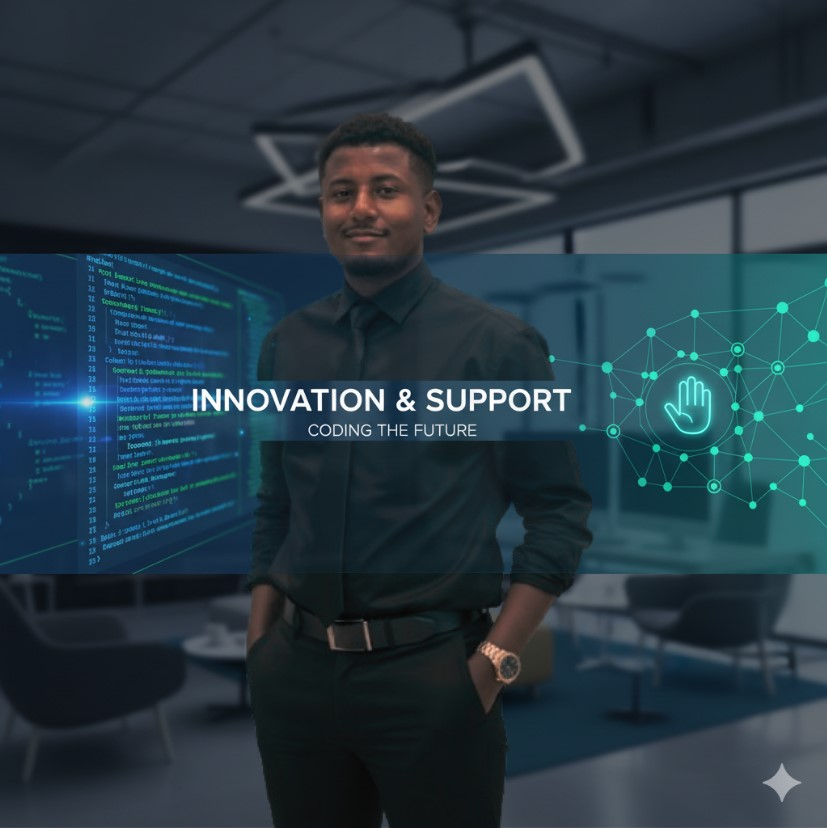
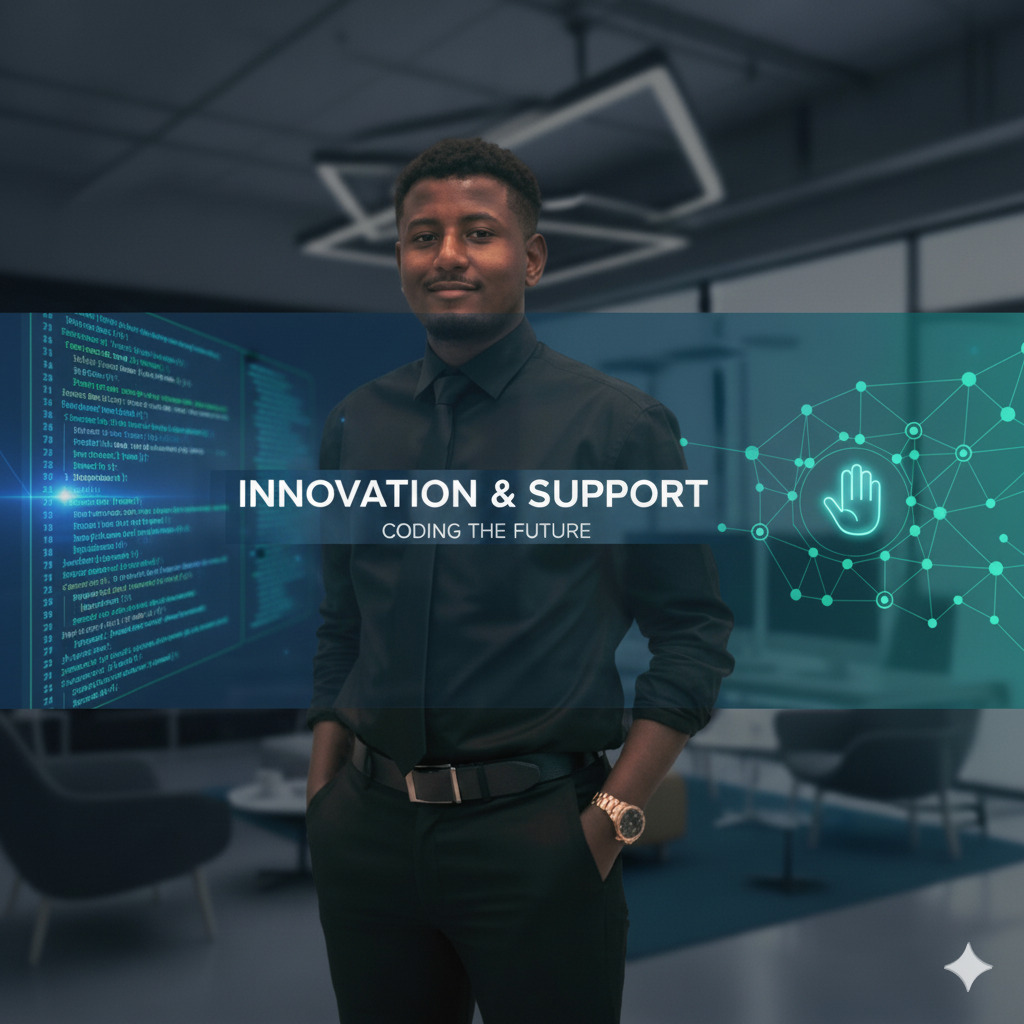
alterações em imagem e sessão

diff --git a/index.html b/index.html
@@ -27,13 +27,7 @@
   <!-- Template Main CSS File -->
   <link href="assets/css/style.css" rel="stylesheet">
 
-  <!-- =======================================================
-  * Template Name: iPortfolio
-  * Template URL: https://bootstrapmade.com/iportfolio-bootstrap-portfolio-websites-template/
-  * Updated: Mar 17 2024 with Bootstrap v5.3.3
-  * Author: BootstrapMade.com
-  * License: https://bootstrapmade.com/license/
-  ======================================================== -->
+ 
 </head>
 
 <body>
@@ -95,7 +89,7 @@
 
         <div class="row">
           <div class="col-lg-4" data-aos="fade-right">
-            <img src="assets/img/profile-img.jpg" class="img-fluid" alt="">
+            <img src="assets/img/profile2.jpg" class="img-fluid" alt="">
           </div>
           <div class="col-lg-8 pt-4 pt-lg-0 content" data-aos="fade-left">
             <h3> Cursando Análise e Desenvolvimento de Sistemas</h3>
@@ -215,6 +209,7 @@
                 <li>Belo horizonte - MG</li>
                 <li>(31) 99317-5760</li>
                 <li>EDUARDOTSOUZA@OUTLOOK.COM.BR</li>
+                <li> <a href="https://github.com/EduardoSouza-tech/Portif-lio.git">REPOSITÓRIO GITHUB</a> </li>
               </ul>
             </div>
                 <div>
@@ -228,7 +223,7 @@
             <h3 class="resume-title">Educação</h3>
             <div class="resume-item">
               <h4>Cursando Análise e Desenvolvimento de Sistemas</h4>
-              <h5>2024 - 1º Período</h5>
+              <h5>2025 - 2º Período</h5>
               <p><em>Descomplica Faculdade, Virtual environment.
             </em>
 
@@ -241,6 +236,27 @@
                   <p class="card-text">Especialista em Basic FrontEnd</p>
                   <p>Análise e Desenvolvimento de Sistemas</p>
                   <p>Obtido em 10 Mar-2024</p>
+              </div>
+          </div>
+              
+            </div>
+
+            <div class="resume-item">
+              <h4>Cursando Programação Full Stack IA </h4>
+              <h5>Do zero ao Avançado</h5>
+              <p><em>Infinity School 
+            </em>
+
+            <div class="card" style="width: 18rem;">
+              <a href="assets/img/infinity-img.jpg" data-lightbox="Infinity" data-title="Infitiny2"> <!-- Substitua 'assets/img/certificado.png' pelo caminho real da sua imagem -->
+                  <img src="assets/img/infinity-img.jpg" class="card-img-top" alt="Infinity"> <!-- Substitua 'assets/img/certificado.png' pelo caminho real da sua imagem -->
+              </a>
+              <div class="card-body">
+                  <h5 class="card-title">Em andamento...</h5>
+                  <p class="card-text">Criação de Software com IA (Python com IA)</p>
+                  <p>Criação de Sites (Html/Css)</p>
+                  <p>Criação de Aplicativos e Games (Javascript)</p>
+                  
               </div>
           </div>
               
@@ -273,7 +289,6 @@
                 <li>Suporte a clientes em processos de emissão e tratamento de NF-e (Nota Fiscal Eletrônica),
                    NFC-e (Nota Fiscal de Consumidor Eletrônica) e NFS-e (Nota Fiscal de Serviço Eletrônica).</li>
                 <li>Execução de scripts para correção de inconsistências em banco de dados.</li>
-                <li>Execução de scripts para correção de inconsistências em banco de dados. </li>
                 <li>Orientação a clientes sobre procedimentos no sistema e acompanhamento de chamados. </li>
                 <li>Emitir e ajustar os relatórios de vendas mensais do sistema e aplicar os parâmetros de taxa corretamente.</li>
                 <li>Registro de laudos técnicos e soluções aplicadas.</li>
